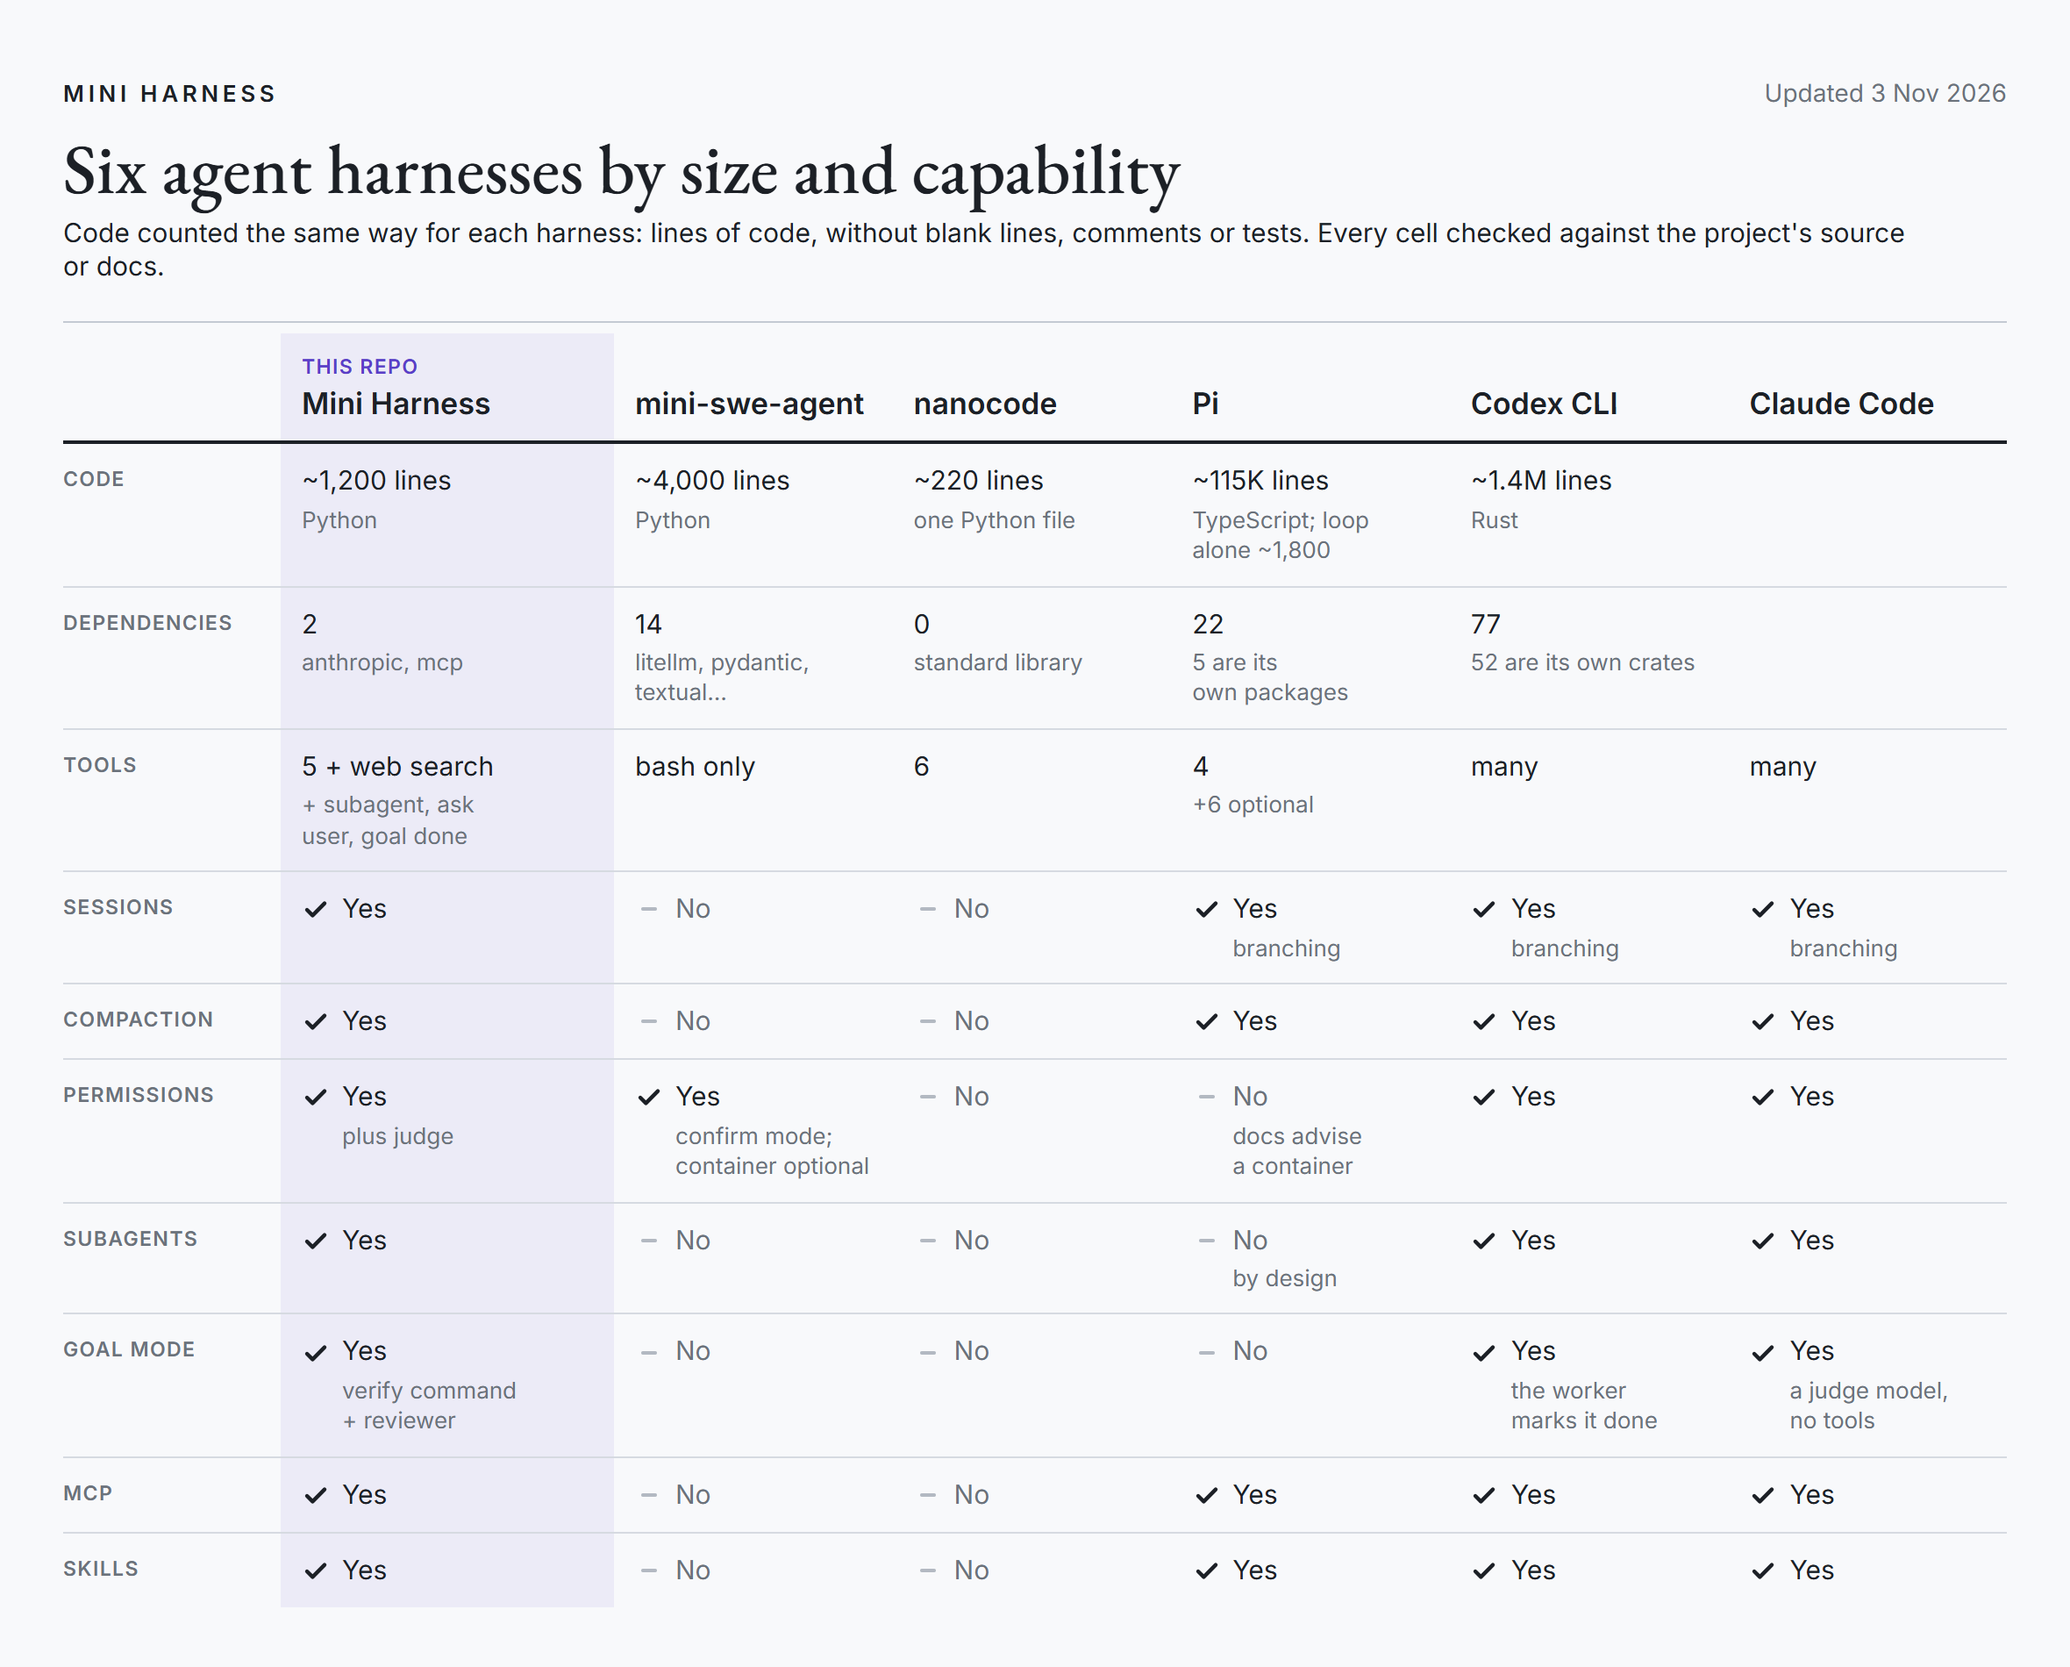
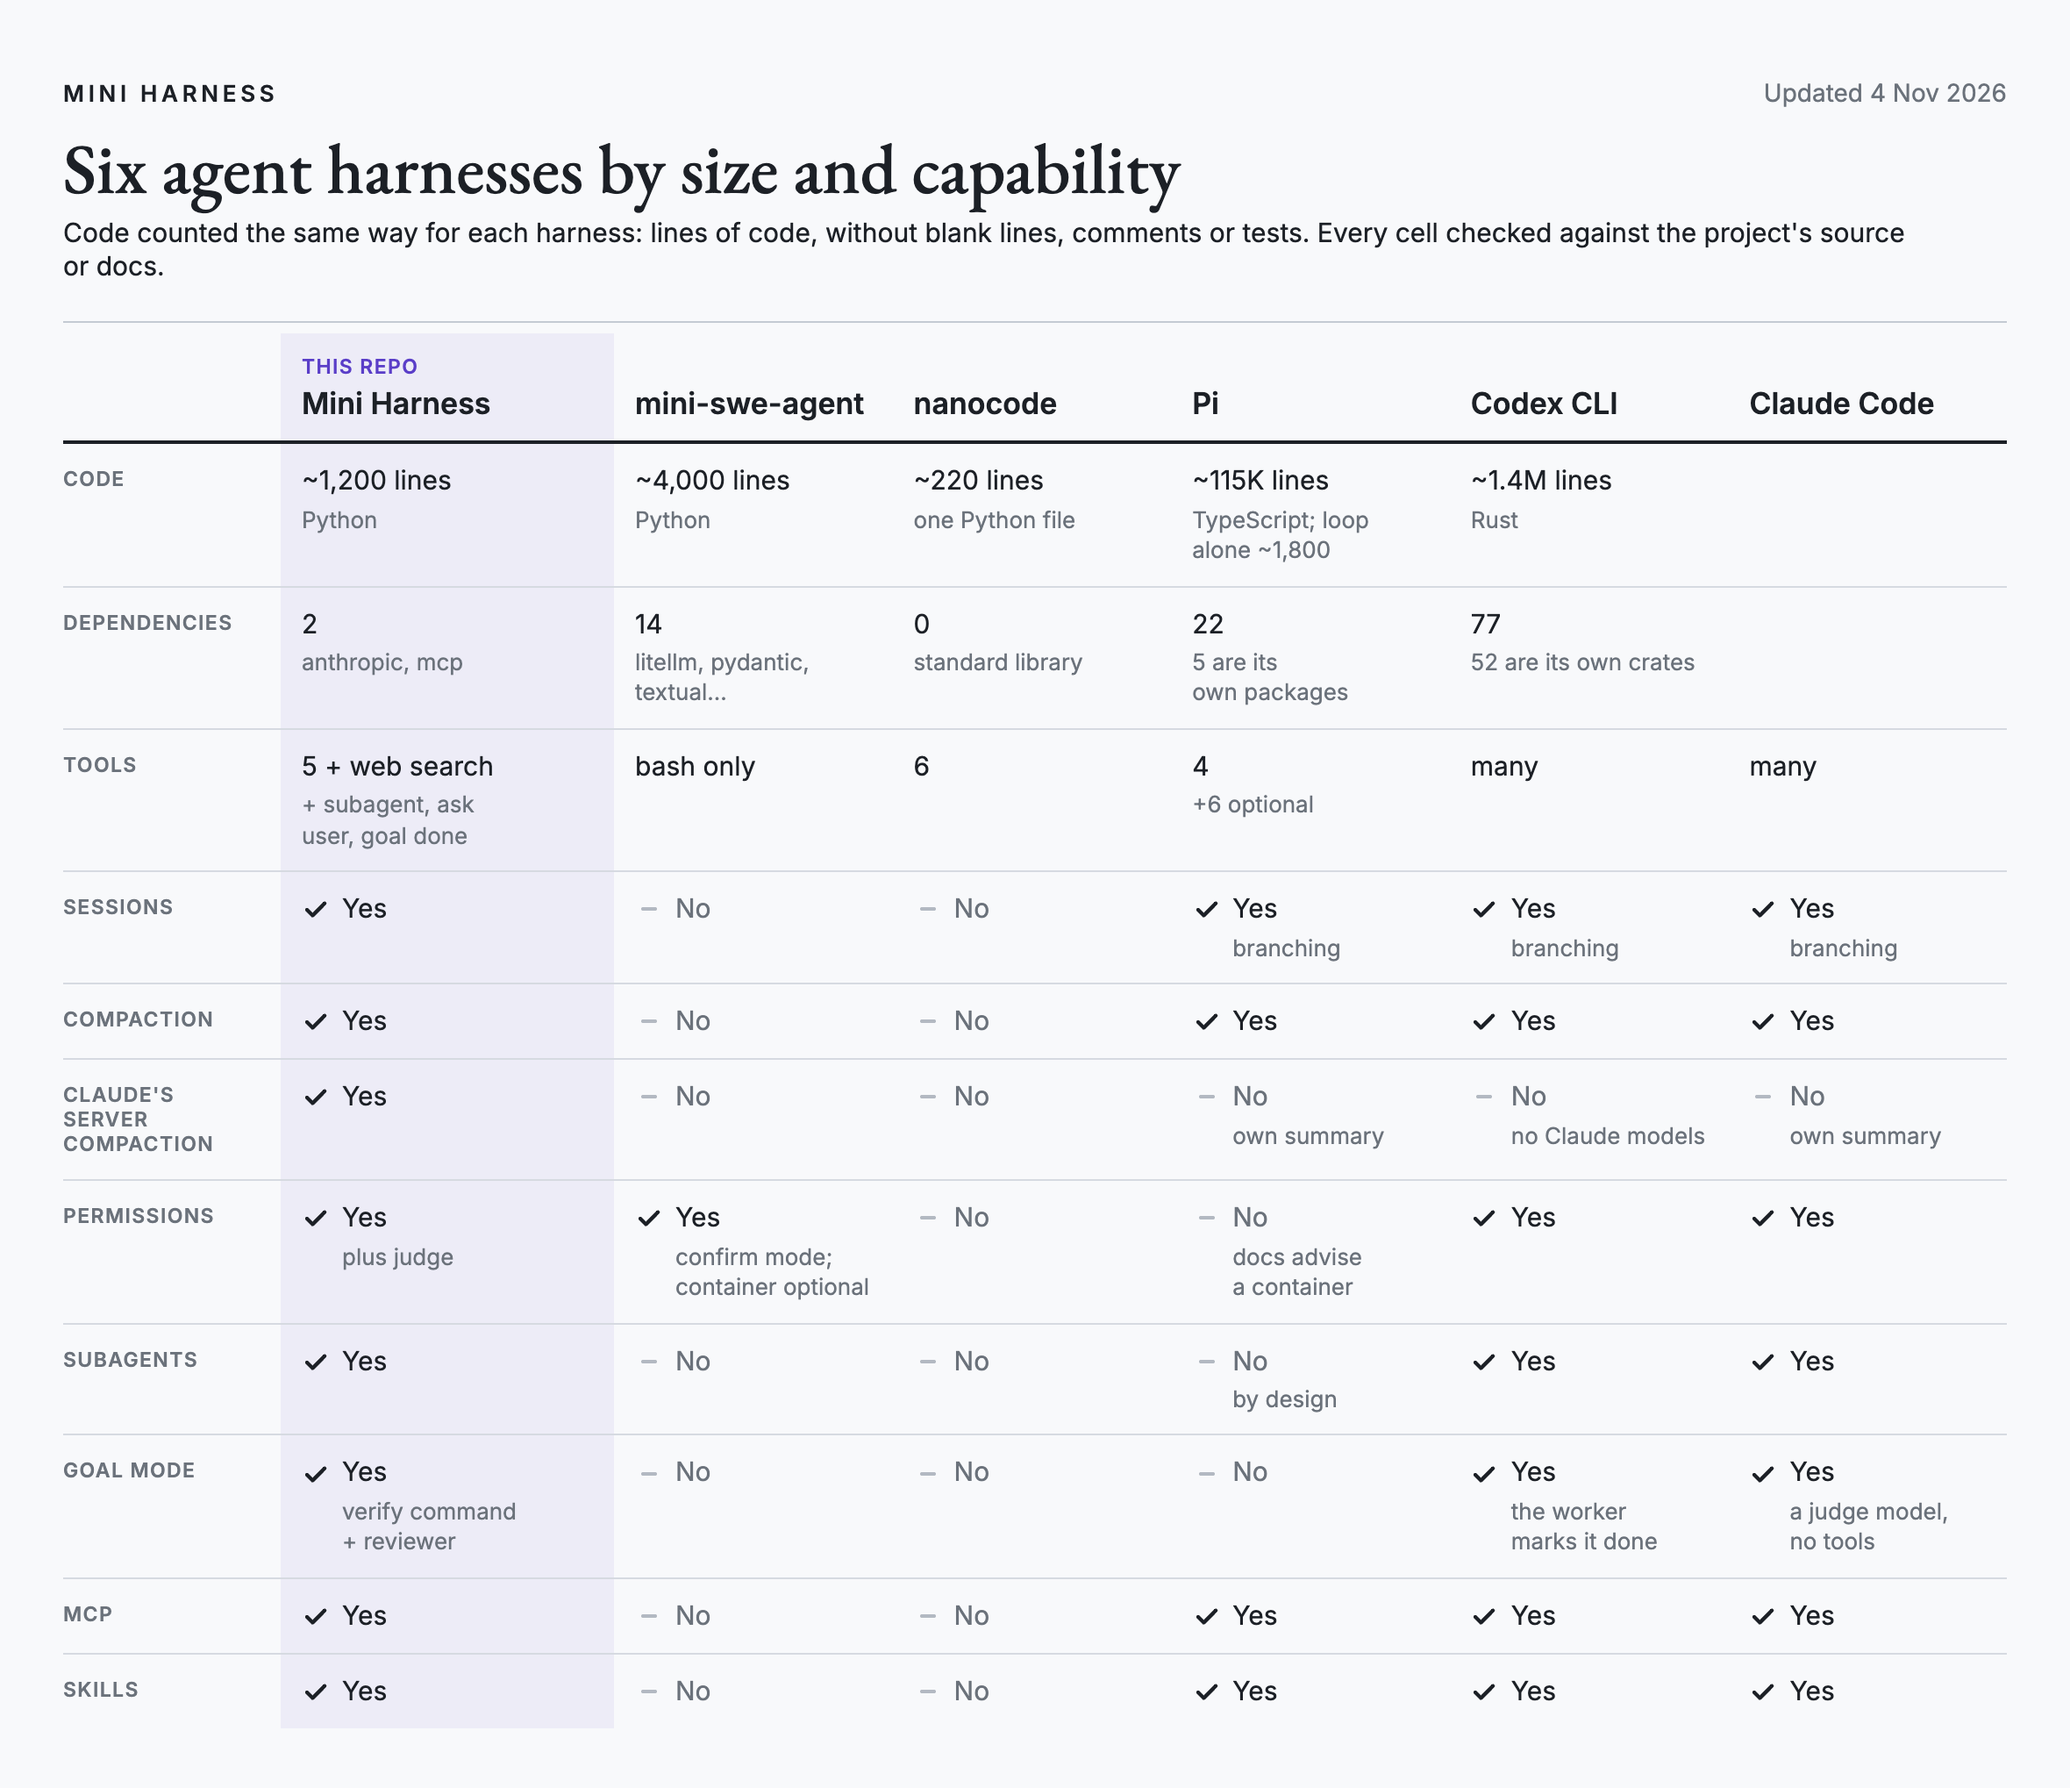
README: built for teaching up front; interactive and unattended runs apart; Claude's server-side compaction row; Terminal-Bench 2.0 header; trims

diff --git a/README.md b/README.md
@@ -3,9 +3,11 @@
 
 # mini
 
-A minimal agent harness for Claude (and other models that speak Anthropic's message format), small enough to read in one sitting: about 1,200 lines of Python, with no dependencies beyond `anthropic` and `mcp`.
+An agent harness built for teaching: about 1,200 lines of Python and two dependencies, small enough to read in one sitting.
 
-It has a tool loop, five local tools plus web search, sessions you can resume, compaction, Agent Skills, MCP servers, subagents, a `/goal` mode with an independent reviewer, permission prompts with an optional AI judge, and memory kept in markdown files. It's built to show what a harness actually has to do, and which parts you can leave out.
+Other minimal harnesses exist, but none has goal mode, permissions, skills and MCP servers. I wanted a fully working one to explain how a harness is built, down to Anthropic's server-side compaction. That's why it runs on Claude and on other models that speak Anthropic's message format.
+
+It has a tool loop, five local tools plus web search, sessions you can resume, compaction, Agent Skills, MCP servers, subagents, a `/goal` mode with an independent reviewer, permission prompts with an optional AI judge, and memory kept in markdown files.
 
 ## What's different
 
@@ -19,10 +21,10 @@ It has a tool loop, five local tools plus web search, sessions you can resume, c
 
 <picture>
   <source media="(prefers-color-scheme: dark)" srcset="docs/img/compare-dark.png">
-  <img src="docs/img/compare-light.png" alt="Mini Harness (this repo) compared with mini-swe-agent, nanocode, Pi, Codex CLI and Claude Code on code size, dependencies, tools, sessions, compaction, permissions, subagents, goal mode and MCP. The same table is below as text.">
+  <img src="docs/img/compare-light.png" alt="Mini Harness (this repo) compared with mini-swe-agent, nanocode, Pi, Codex CLI and Claude Code on code size, dependencies, tools, sessions, compaction, Claude's server-side compaction, permissions, subagents, goal mode, MCP and skills. The same table is below as text.">
 </picture>
 
-As of November 2026. Pi is built to be extended; mini is built to be read. Smaller harnesses do real work, but none of the ones above covers crash recovery, an append-only transcript, permissions and checked goals together.
+As of November 2026. Pi is built to be extended; mini is built to be read.
 
 <details>
 <summary>The same table as text</summary>
@@ -34,6 +36,7 @@ As of November 2026. Pi is built to be extended; mini is built to be read. Small
 | Tools | 5 + web search (+ subagent, ask user, goal done) | bash only | 6 | 4 (+6 optional) | many | many |
 | Sessions | yes | no | no | yes, branching | yes, branching | yes, branching |
 | Compaction | yes | no | no | yes | yes | yes |
+| Claude's server compaction | yes | no | no | no, own summary | no, no Claude models | no, own summary |
 | Permissions | yes, plus judge | yes, confirm mode; container optional | no | no, docs advise a container | yes | yes |
 | Subagents | yes | no | no | no, by design | yes | yes |
 | Goal mode | yes, verify command + reviewer | no | no | no | yes, the worker marks it done | yes, a judge model, no tools |
@@ -51,9 +54,9 @@ As of November 2026. Pi is built to be extended; mini is built to be read. Small
   <img src="docs/img/bug-hunt-bench-light.png" alt="Bug Hunt Bench, DeepSeek V4.1 Flash 1017 at high effort, mean planted bugs fixed over five runs: Pi 40.4, Grok Build CLI 40.4, DeepSeek Harness 39.2, OpenCode 2.0 38.6, OpenCode 36.6, Claude Code 36.4, Mini Harness 34.2, Codex CLI 33.2, Hermes Agent 32.0, Kilo Code 31.8.">
 </picture>
 
-### On Terminal-Bench
+### On Terminal-Bench 2.0
 
-[Terminal-Bench 2.0](https://www.tbench.ai/) gives an agent a job in a Docker container, such as building a Cython extension, setting up a git web server or booting an Alpine VM in QEMU, and checks the result with hidden tests. On its official 10-task sample, run through Harbor with Claude Haiku 5.5 at high effort for every harness, [mini 1.0.0](https://github.com/phuryn/mini-harness/tree/767a0b4) passed 8.2 tasks on average over five runs, tied with OpenCode and behind Pi (8.8) and Claude Code (8.4), in 33 agent minutes and for $0.11 a run. Runs one to three of eight tasks ran on a Mac; the two QEMU tasks and runs four and five ran on x86 Linux, with the same harness versions.
+[Terminal-Bench 2.0](https://www.tbench.ai/) gives an agent a job in a Docker container, such as building a Cython extension, setting up a git web server or booting an Alpine VM in QEMU, and checks the result with hidden tests. On its official 10-task sample, run through Harbor with Claude Haiku 5.5 at high effort for every harness, [mini 1.0.0](https://github.com/phuryn/mini-harness/tree/767a0b4) passed 8.2 tasks on average over five runs, tied with OpenCode and behind Pi (8.8) and Claude Code (8.4), in 33 agent minutes and for $0.11 a run. Some runs were on a Mac and the rest on x86 Linux, with the same harness versions.
 
 <picture>
   <source media="(prefers-color-scheme: dark)" srcset="docs/img/terminal-bench-dark.png">
@@ -112,15 +115,21 @@ A model whose key is missing refuses to start and says which variable to set. Ke
 
 ## First run
 
+**Interactive.** Start it in a project and talk to it. `/help` lists commands, `/exit` quits. The first line shows the model and who approves risky actions: `permissions judge` when the OpenRouter key is set, `permissions ask` otherwise.
+
 ```bash
 cd ~/some/project
-mini                                      # interactive; /help lists commands, /exit quits
-mini -p "explain this repo in five bullets"   # one prompt, then exit
+mini
 ```
 
-The first line shows the model and who approves risky actions: `permissions judge` when the OpenRouter key is set, `permissions ask` otherwise.
+**Unattended.** `-p` runs one prompt, prints the answer and exits. Nobody is there to approve risky actions, so they're denied unless `--allow` covers them.
 
-On Windows without Git for Windows, the `bash` tool falls back to `cmd.exe`; `MINI_BASH` points it to another `bash.exe`. `MINI_NO_WEB=1` leaves web search out of the tools, for runs that must not look anything up. `MINI_NO_TASK=1` leaves out subagents, so one loop reads and does everything (the `/goal` reviewer still runs); both are set when a session starts.
+```bash
+cd ~/some/project
+mini -p "explain this repo in five bullets"
+```
+
+On Windows without Git for Windows, the `bash` tool falls back to `cmd.exe`; `MINI_BASH` points it to another `bash.exe`. `MINI_NO_WEB=1` leaves web search out of the tools, for runs that must not look anything up. `MINI_NO_TASK=1` leaves out subagents (the `/goal` reviewer still runs).
 
 To work on mini itself: `git clone https://github.com/phuryn/mini-harness && cd mini-harness && uv sync && uv run pytest -q`, then `uv run --project <clone> mini` from any folder.
 
@@ -221,4 +230,4 @@ A full-screen UI, hooks, plugins, a sandbox, checkpoints (use git), forked or pa
 uv run pytest -q
 ```
 
-134 offline tests against a scripted fake client and a real MCP stdio server. They check the invariants above: append-only requests, an answer for every tool call, resume, compaction, interrupts, goal mode, subagent isolation. `AGENTS.md` has the rules for changing the code.
+143 offline tests against a scripted fake client and a real MCP stdio server. They check the invariants above: append-only requests, an answer for every tool call, resume, compaction, interrupts, goal mode, subagent isolation. `AGENTS.md` has the rules for changing the code.
